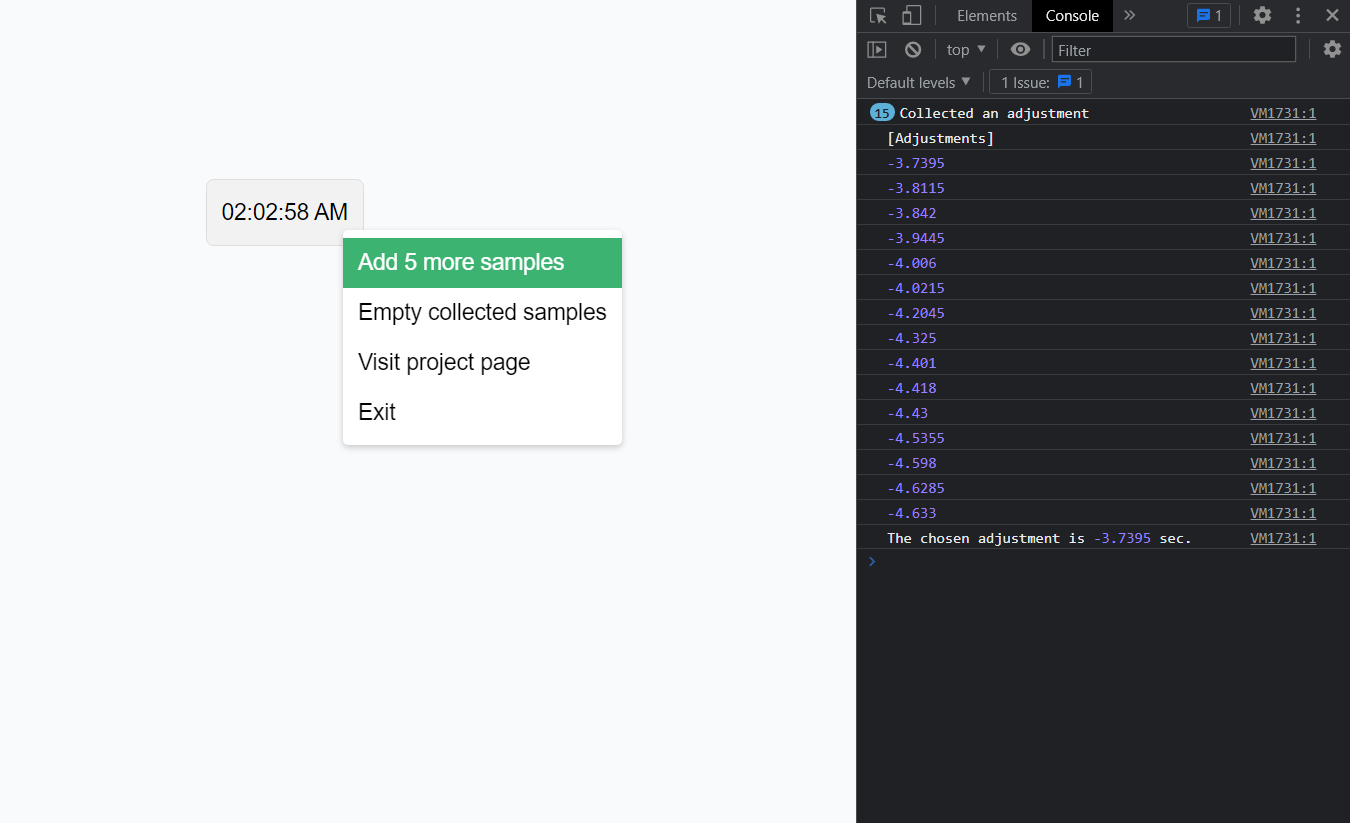
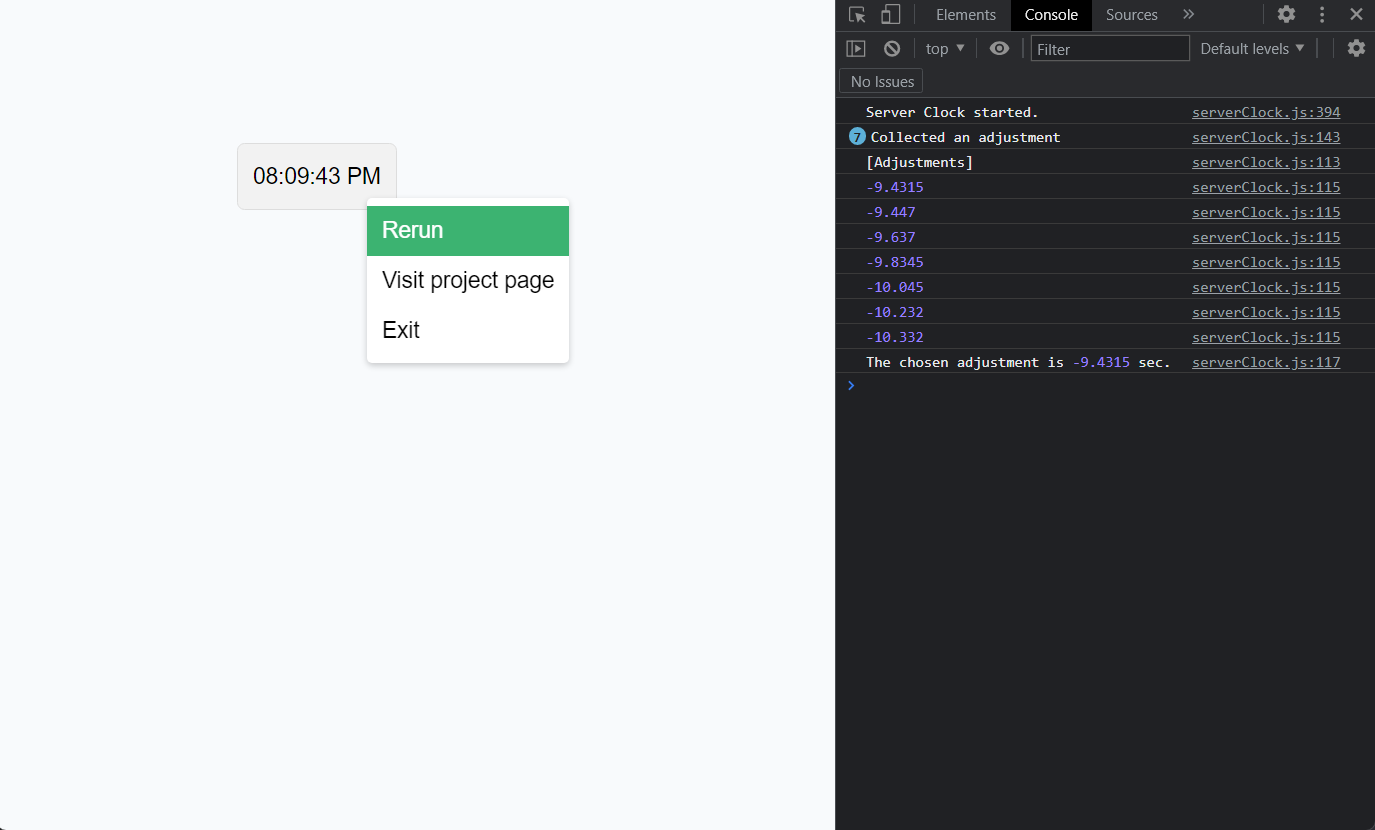
maintenance

diff --git a/page/js/script.js b/page/js/script.js
@@ -1,9 +1,3 @@
-/* ------------------------------
-// Bookmarklet Generation Section
-// ------------------------------*/
-
-// Option for UglifyJS
-
 // URI encode reserved characters
 function encodeReserved(str) {
   const reserved = [' ', '%', '"', '<', '>', '#', '@', '\\&', '\\?'];
@@ -89,8 +83,10 @@ function init() {
   }
 
   // Make JavaScript bookmarklet from a static source
-  function attachBookmarklet(src) {
+  function attachBookmarklet() {
     let bookmarklets = document.getElementsByClassName('bookmarklet');
+
+    // Option for UglifyJS
     let options = {
       compress: {
         expression: true,

diff --git a/changelog.md b/changelog.md
@@ -1,41 +1,26 @@
 # Changelog
 
-### v0.9
+## Server Clock
 
-- Clean up upon exit
+[v0.9] Clean up upon exit  
+[v0.8] Combined 'Add 5 more samples' and 'Empty collected samples' into 'Rerun' in UI  
+[v0.8] Attempt to increase the estimation accuracy with less number of requests.  
+[v0.6] Now uses [Performance.now()](https://developer.mozilla.org/en-US/docs/Web/API/Performance/now) to avoid local clock issues  
+[v0.5] Added automatic sampling size calculation  
+[v0.5] Removed broken timespacing calculation (Now random)  
+[v0.4] Added sampling timeout  
+[v0.4] Minor adjustments (timespacing, num_repeat, etc.)  
+[v0.3] Added context menu UI  
+[v0.2] Added UI  
+[v0.2] Created [test_accuracy.js](./js/test_accuracy.js) for accuracy testing  
+[v0.1] Initial version
 
-### v0.8
+## Launcher
 
-- Combined 'Add 5 more samples' and 'Empty collected samples' into 'Rerun' in UI
-- Attempt to increase the estimation accuracy with less number of requests.
+[v0.1] Created [launcher.js](./js/launcher.js)
 
-### v0.7
+## Distribution Page
 
-- Created [launcher.js](./js/launcher.js) and [the bookmarklet page](https://r8btx.github.io/Server-Clock-Bookmarklet/page) to simplify the setup process.
-
-### v0.6
-
-- Now uses [Performance.now()](https://developer.mozilla.org/en-US/docs/Web/API/Performance/now) to avoid local clock issues
-
-### v0.5
-
-- Added automatic sampling size calculation
-- Removed broken timespacing calculation (Now random)
-
-### v0.4
-
-- Added sampling timeout
-- Minor adjustments (timespacing, num_repeat, etc.)
-
-### v0.3
-
-- Added context menu UI
-
-### v0.2
-
-- Added UI
-- Created [test_accuracy.js](./js/test_accuracy.js) for accuracy testing
-
-### v0.1
-
-- Initial version
+[v0.3] Fixed the distribution page not functioning.  
+[v0.2] Recreated the bookmarklet distribution page with an experimental feature of automatic bookmarklet generation.  
+[v0.1] Created [the bookmarklet page](https://r8btx.github.io/Server-Clock-Bookmarklet/page) to simplify the setup process.

diff --git a/README.md b/README.md
@@ -6,13 +6,13 @@ It is a reimplementation of [the previous project](https://github.com/r8btx/Serv
 ## Disclaimer
 
 While **Server Clock** aims to be accurate, no warranty is given. Use at your own risk!  
-This document is revised using ChatGPT.
+**This repository is currently undergoing active maintenance. You may need to visit again for the latest updates. [[ChangeLog](./changelog.md)]**
 
 ## Quick Setup
 
-- Open the [Server Clock bookmarklet page](https://r8btx.github.io/Server-Clock-Bookmarklet/page) and drag the "Server Clock" link to your bookmark bar.
+- The most up-to-date bookmarklets are automatically generated on [Server Clock bookmarklet distribution page](https://r8btx.github.io/Server-Clock-Bookmarklet/page). For a quick setup, visit the page and follow the instructions.
 
-If you wish to generate the bookmarklet directly from the source, you can do so using [this tool](https://chriszarate.github.io/bookmarkleter/).
+If you wish to generate the bookmarklet manually from the source, you can do so using [this tool](https://chriszarate.github.io/bookmarkleter/).
 
 ## How to Use
 
